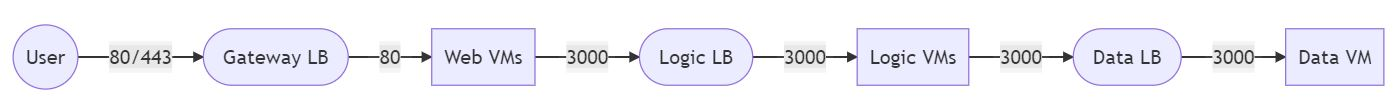
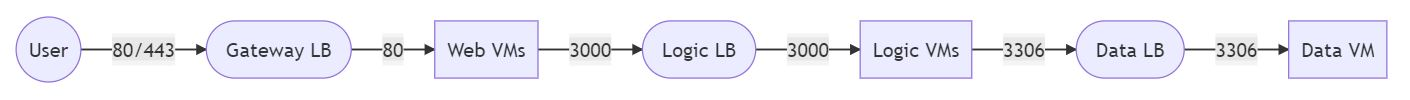
flow diagram updated

diff --git a/readme.md b/readme.md
@@ -33,10 +33,9 @@ graph LR
   B --  |80| C[Web VMs]
   C -- |3000| D([Logic LB])
   D -- |3000| E[Logic VMs]
-  E -- |3000| G([Data LB])
-  G -- |3000| H[Data VM]
-```
---->
+  E -- |3306| G([Data LB])
+  G -- |3306| H[Data VM]
+---->
 
 ## Technical Design
 
